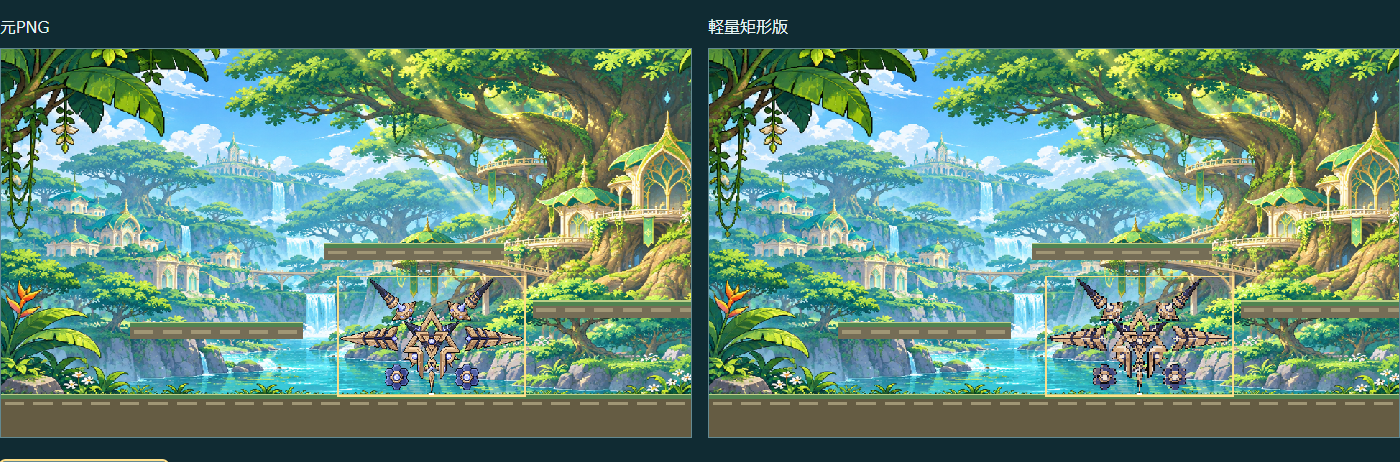
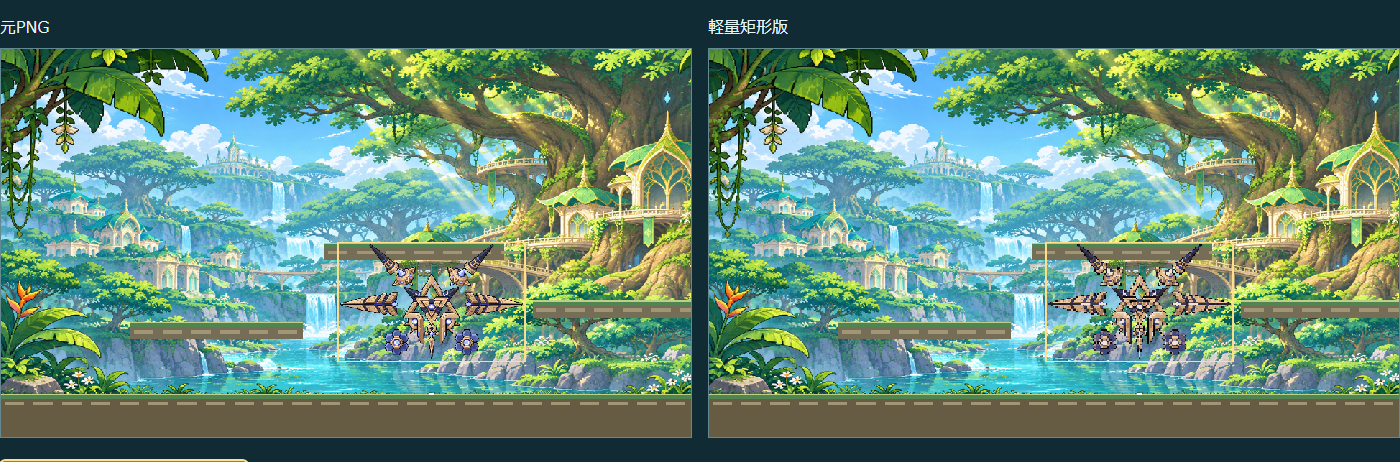
Show floating boss art above map preview support points

Changed region(s): [[0.7371, 0.5152, 0.8907, 0.8788], [0.2457, 0.5152, 0.3686, 0.8788], [0.1229, 0.9697, 0.1843, 1.0]]

diff --git a/map-art.html b/map-art.html
@@ -7,6 +7,6 @@
 <div class="controls"><label>クリック操作 <select id="editMode"><option value="add">素材を追加</option><option value="move">選択した個体を移動</option></select></label><span id="selectionStatus">選択なし</span><button id="flipSelected" disabled>選択した個体の向きを反転</button><button id="deleteSelected" disabled>選択した個体を削除</button><button id="clearSelection" disabled>選択を解除</button></div>
 <label>保存した配置案を読み込む <input id="import" type="file" accept=".json,application/json"></label><p id="fileStatus" role="status" class="note">読み込むと全地点の編集案を置き換えます。必要な案は先にJSON保存してください。</p>
 <p class="note">「本編配置を読み込む」でこの地点の編集案を置き換えます。取り消しで元の案に戻せます。「素材を追加」で画像をクリックすると近い足場へ追加します。下の個体一覧で個体を選ぶと移動モードになります。移動先を画像上でクリックしてください。移動・反転・削除も取り消せます。別地点へ移っても案はこの画面内で保持します。再読み込みで初期案へ戻ります。必要な案はJSON保存してください。</p>
-<p class="note">ボスは素材比較画面と同じ仮の大きさです。浮遊するボスも、ここでは画像の下端を足場へ合わせて表示します。本編での浮遊高度・当たり判定・戦闘配置を示すものではありません。</p>
+<p class="note">ボスは素材比較画面と同じ仮の大きさです。浮遊素材は足場の基準点から仮の高さだけ離して表示します（一覧に「浮き」を表示）。水・炎など地面側の表現を含む素材は下端を足場へ合わせます。高さは見た目比較用で、本編の飛行高度・当たり判定ではありません。</p>
 <main><figure><figcaption>元PNG</figcaption><canvas id="png" width="960" height="540"></canvas></figure><figure><figcaption>軽量矩形版</figcaption><canvas id="rect" width="960" height="540"></canvas></figure></main>
 <div id="placements"></div><section aria-label="本編配置との差分"><h2>本編配置との差分</h2><button id="compareLive">本編との差分を確認・更新</button><p id="diffSummary" role="status"></p><ul id="diffDetails"></ul><p class="note">同じ個体IDを照合します。比較基準は取得時点の配置です。本編への反映や自動保存は行いません。</p></section><p id="status" role="status">読み込み中</p><script type="module" src="map-art.js"></script></html>

diff --git a/map-art.js b/map-art.js
@@ -18,7 +18,7 @@ try{
  for(const [kind,label,file] of [['boss','ボス待機候補（比較用の大きさ）','boss-art-gallery.json'],['character','主人公・味方（待機候補）','character-art-gallery.json']]){
   const gallery=await json('content/'+file),group=document.createElement('optgroup');group.label=label;
   const loaded=await Promise.all(gallery.items.map(async item=>({item,data:await json('assets/'+item.file)})));
-  for(const {item,data} of loaded){const id=kind+'-'+item.id;assets[id]={...data,h:item.height,hover:0};const option=document.createElement('option');option.value=id;option.textContent=item.name;group.append(option)}
+  for(const {item,data} of loaded){const id=kind+'-'+item.id;assets[id]={...data,h:item.height,hover:item.mapHover??0};const option=document.createElement('option');option.value=id;option.textContent=item.name;group.append(option)}
   $('species').append(group);
  }
  const images=await loadImageSet(Object.values(assets).map(data=>data.source),{onProgress:(done,total)=>{$('status').textContent=`画像を読み込み中 ${done} / ${total}`}});

diff --git a/CHAT_HANDOFF.md b/CHAT_HANDOFF.md
@@ -285,3 +285,6 @@ map-art.html追加: 本編61仮地点の足場/背景を選択し、元PNGと軽
 
 
 2026-11-17: 半永久統制マトリックスの参照付き待機候補追加。HoYoWiki2855の全身/同姿勢別サイズ/ゲーム内/初期案/最終正側背面設定画を確認し、全身1と最終設定画6をbuiltin画像生成へ使用。3Dモデル未確認。160/120/80px=6836/4119/1811矩形（最軽量73.51%減、FPSではない）。20ボス21候補の表示比較と配置検査はerrorsなし。単体と仮背景上を目視し三角核・左右矢形部品は残るが青装飾/刻印は粗くなる。対称配置への改変と上側部品間隔の簡略化あり。待機候補のみ、技/本編配置未実装。背景は仮画像、本番3D想定。根拠 evidence/asimon-reference-audit.json, evidence/asimon-comparison.png。
+
+
+2026-11-17: マップ素材比較の浮遊表示を追加。boss-art-galleryのmapHoverに比較用下端距離を定義し、マトリックス/無相の風雷岩氷草/からくり陣形は48px、純水精霊/雷音権現は64px浮かせる。水炎の地面側表現と接地素材は0を維持。高さは仮で本編高度/当たり判定ではない。21ボス候補と9主人公味方候補の3設定・配置・反転・JSON書出読戻・削除undo・390px検査通過。マトリックスの元PNG/最軽量を仮背景上で目視し下端の空間を確認。技変更なし。根拠 evidence/boss-placement-test.json, evidence/character-placement-test.json, evidence/asimon-map-comparison.png。
